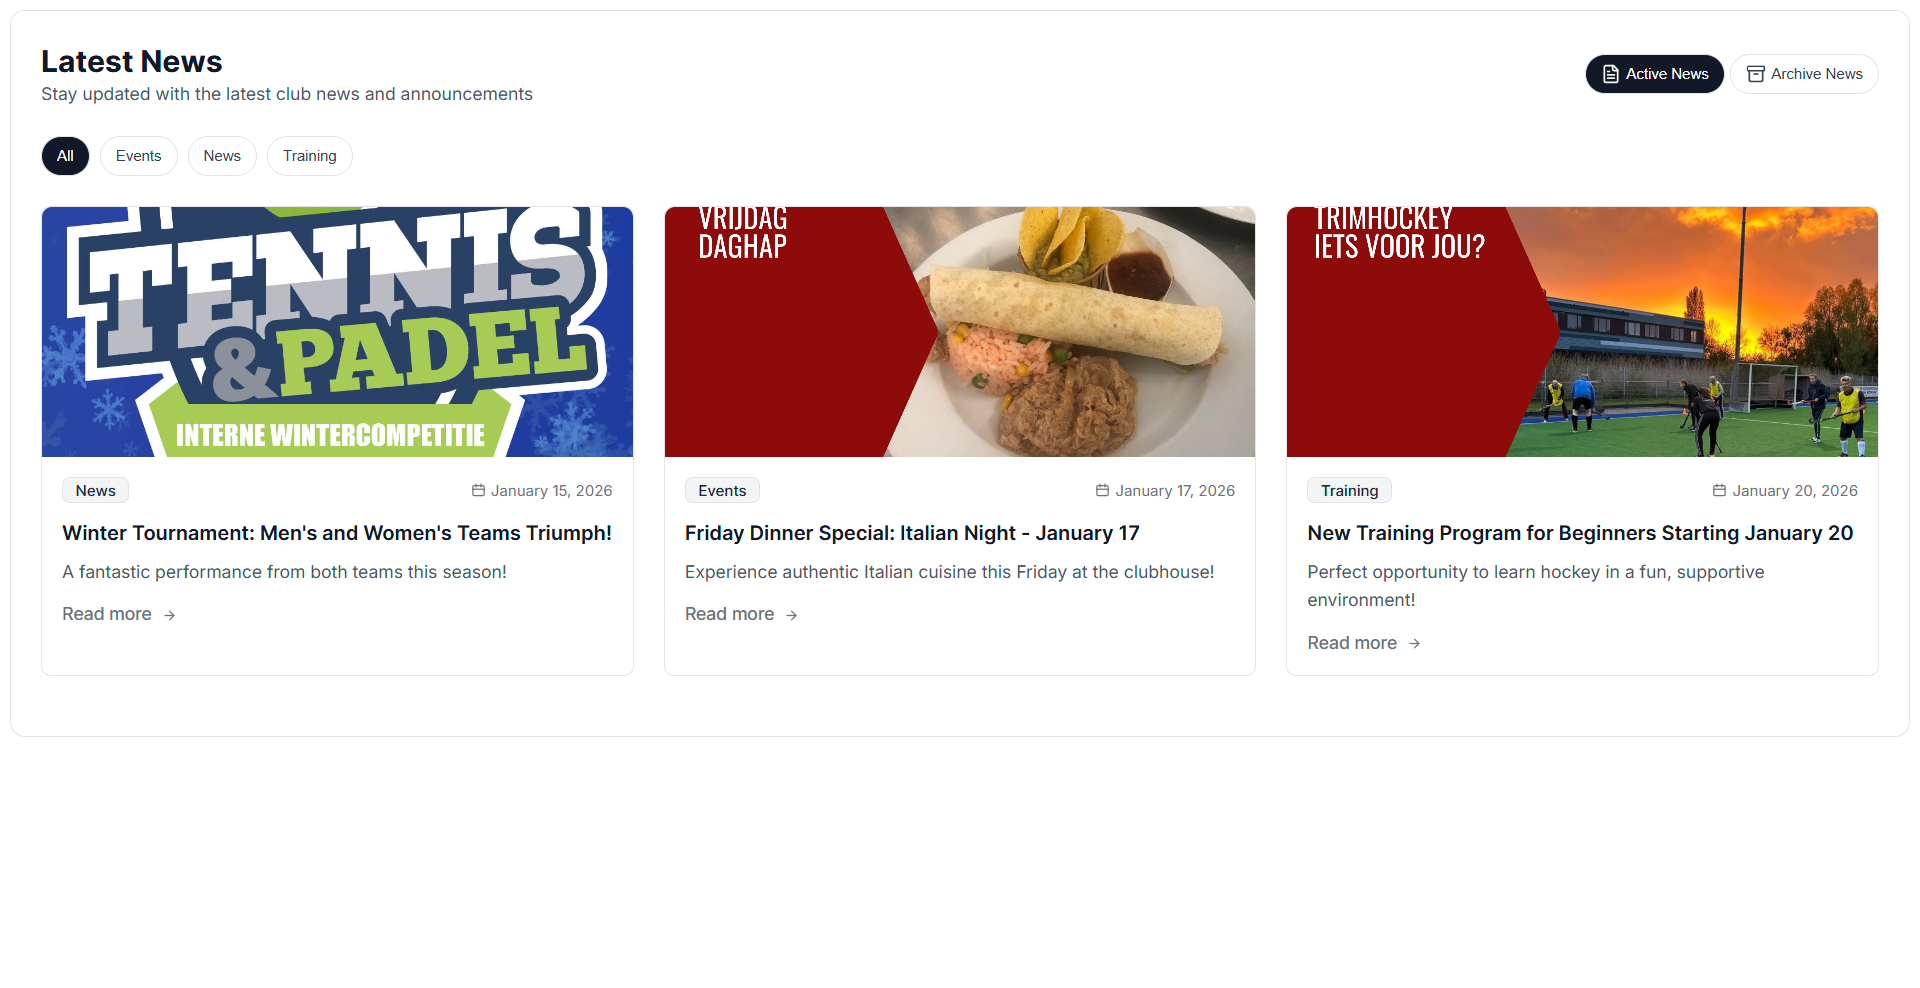
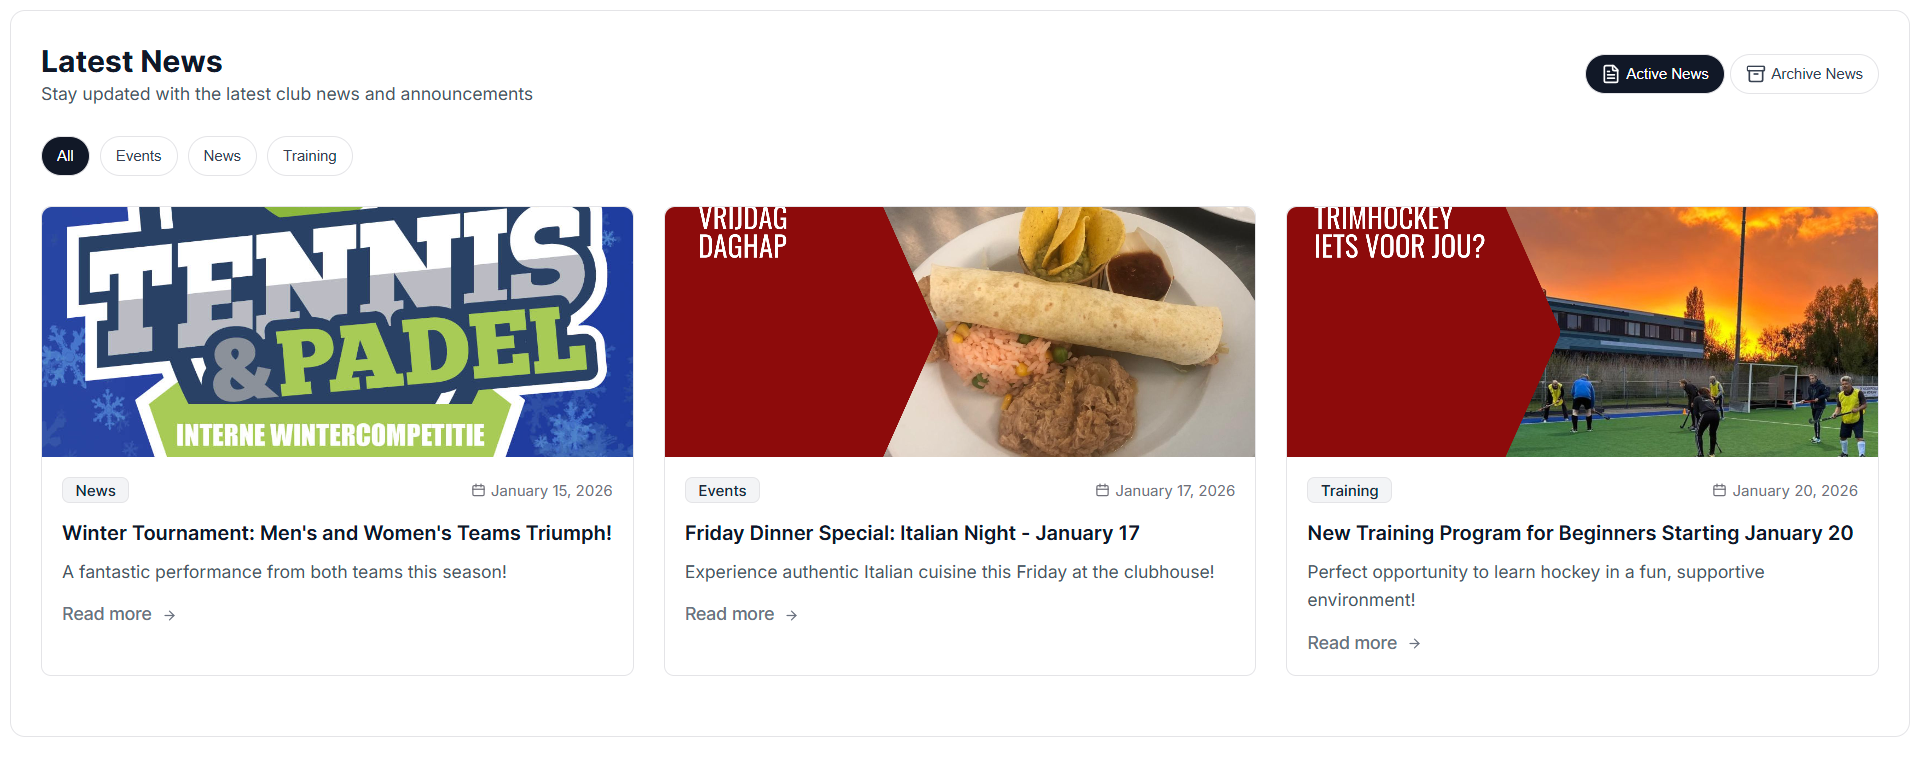
added missing screenshot in readme

diff --git a/widgets/js-matches-schedules-widget/README.md b/widgets/js-matches-schedules-widget/README.md
@@ -6,6 +6,12 @@ A comprehensive, interactive widget for displaying and managing hockey match sch
 
 The Hockey Matches Schedule Widget is a vanilla JavaScript-based component designed to provide users with an intuitive interface to browse, filter, and view detailed information about upcoming hockey matches. Built with modern web standards and Bootstrap styling, it offers seamless user experience across all devices.
 
+## 📸 Screenshots
+
+![Hockey Matches Schedule Widget](assets/screenshots/js-matches-schedules-widget.png)
+
+_The widget displaying match schedule with filtering options, date navigation, and accordion match details._
+
 ## Features
 
 ### 📅 **Date Navigation**
